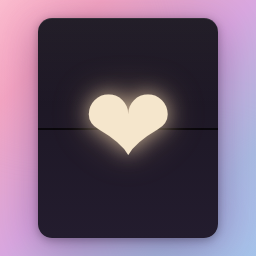
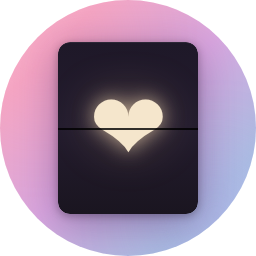
chore: align branding consistency across all surfaces (#121)
- pyproject.toml: name e-note-ion (lowercase); drop ! from description
- unraid/e-note-ion.xml: Name e-note-ion (machine-readable, per Unraid convention)
- assets/social-preview.png: regenerated with E•NOTE•ION (bullet, not middle dot)
- assets/icon.png: regenerated with circular transparent background (RGBA)
- assets/README.md: update prompts to use E•NOTE•ION canonical name;
  wrap both prompts to 80-column target; update icon prompt to reflect
  circular/transparent design
- CLAUDE.md: require reading all issue comments before planning or
  prioritising; add to both Maintenance and Planning sections

GitHub repo metadata updated directly (outside this commit):
  description, homepage, topics

Closes #93
Closes #53

diff --git a/assets/README.md b/assets/README.md
@@ -8,70 +8,92 @@ through several rounds of feedback. The final prompt used to produce it:
 
 ```
 Generate a social media preview image at 1280×640 pixels for a GitHub
-repository called "e-note-ion". The name is a play on both "Vestaboard
+repository called "E•NOTE•ION". The name is a play on both "Vestaboard
 Note" (a split-flap display) and the Carly Rae Jepsen album "E•MO•TION".
 
-Style: 80s synthpop / E•MO•TION album aesthetic. Soft pastel gradient
+**Style:** 80s synthpop / E•MO•TION album aesthetic. Soft pastel gradient
 background, pink fading to lavender or light blue. Dreamy, warm, slightly
 retro. No photorealism — graphic design / illustration style.
 
-Center element: A split-flap display showing "E-NOTE-ION" across 10 tiles:
-E, -, N, O, T, E, -, I, O, N. The dashes are proper dark flap tiles with a
-- character. Two tiles appear mid-flip to show motion — the O tile (4th)
-and the I tile (8th):
+**Center element:** A split-flap display showing "E-NOTE-ION" across 10
+tiles: `E`, `-`, `N`, `O`, `T`, `E`, `-`, `I`, `O`, `N`. The dashes are
+proper dark flap tiles with a `-` character. Two tiles appear mid-flip to
+show motion — the O tile (4th) and the I tile (8th):
+- Each tile is built from two half-panels (top and bottom), both showing
+  the **outgoing** character, clipped to their respective halves so the
+  character appears whole across the split.
+- A **falling flap** overlay covers the top half, showing the **incoming**
+  character's top half, rotated around its bottom edge using CSS `rotateX`
+  with `perspective`. The flap should be nearly flat (almost done
+  flipping) — use `rotateX(18deg)` for the O tile (N→O transition) and
+  `rotateX(22deg)` for the I tile (H→I transition). Include a subtle
+  darkening gradient on the flap face to sell the foreshortening.
+- A 2px dark split line sits at the tile midpoint (z-index above panels).
+- Tile bodies are dark near-black purple-dark. Characters in warm
+  cream/white (`#f5e6cc`) with a subtle glow. Flap characters slightly
+  warmer/dimmer (`#c9a572`).
 
-Each tile is built from two half-panels (top and bottom), both showing the
-outgoing character, clipped to their respective halves so the character
-appears whole across the split.
+**Title:** "E•NOTE•ION" in Bebas Neue bold retro typography, styled like
+the E•MO•TION album logo. Use two filled pink circles (`#d94f7a`, 22px
+diameter) as dot separators between E, NOTE, and ION. Font size ~96px,
+dark color, slight text shadow. Dots should be vertically centered with
+the text (use `top: -2px` to fine-tune alignment).
 
-A falling flap overlay covers the top half, showing the incoming
-character's top half, rotated around its bottom edge using CSS rotateX with
-perspective. The flap should be nearly flat (almost done flipping) — use
-rotateX(18deg) for the O tile (N→O transition) and rotateX(22deg) for the
-I tile (H→I transition). Include a subtle darkening gradient on the flap
-face to sell the foreshortening.
+**Tagline** below in DM Sans 300 weight, ~22px, letter-spacing 2.5px:
+"Automation for Vestaboard displays — with emotion" — no trailing period,
+sentence case (capitalize Automation and Vestaboard only).
 
-A 2px dark split line sits at the tile midpoint (z-index above panels).
+**Accents:** ~11 small colored square tiles (red `#e8453c`, orange
+`#f28b30`, yellow `#f5c842`, green `#4caf6e`) scattered as confetti around
+the composition, referencing Vestaboard's colored character codes. Vary
+sizes (~13–20px), rotations, and opacity slightly. Keep outside the
+central content area.
 
-Tile bodies are dark near-black purple-dark. Characters in warm
-cream/white (#f5e6cc) with a subtle glow. Flap characters slightly
-warmer/dimmer (#c9a572).
-
-Title: "E·NOTE·ION" in Bebas Neue bold retro typography, styled like the
-E•MO•TION album logo. Use two small filled pink circles (#d94f7a) as dot
-separators between E, NOTE, and ION. Font size ~96px, dark color, slight
-text shadow.
-
-Tagline below in DM Sans 300 weight, ~22px: "Automation for Vestaboard
-displays — with emotion" — no trailing period, sentence case (capitalize
-Automation and Vestaboard only).
-
-Accents: ~11 small colored square tiles (red #e8453c, orange #f28b30,
-yellow #f5c842, green #4caf6e) scattered as confetti around the
-composition, referencing Vestaboard's colored character codes. Vary sizes
-(~13–20px), rotations, and opacity. Keep outside the central content area.
-
-Layout: All content within a 40pt safe border. No watermark or label.
+**Layout:** All content within a 40pt safe border. No watermark or label.
 Clean centered composition — display above, title and tagline stacked
 below.
 ```
 
 ## Icon (`icon.png`)
 
-The app icon was generated using [Claude](https://claude.ai) (Anthropic),
-continuing the same chat session as the social preview to preserve aesthetic
-context. The final prompt used:
+The app icon was generated using [Claude](https://claude.ai) (Anthropic).
+The final prompt used:
 
 ```
-Now generate a square app icon at 256×256 pixels for the same project.
+Generate a square app icon at 256×256 pixels for a project called
+E•NOTE•ION — a cron-based content scheduler for Vestaboard split-flap
+displays. The name is a play on both "Vestaboard Note" and the Carly Rae
+Jepsen album "E•MO•TION".
 
-Center element: A single split-flap display tile, dark (near-black
-purple-dark), showing the ❤ character in warm cream/white with a subtle
-glow. Include a horizontal split line across the middle of the tile. The
-tile should be large and prominent, filling most of the icon, with
-slightly rounded corners and a subtle drop shadow.
+**Style:** Same 80s synthpop / E•MO•TION aesthetic as the social preview —
+soft pastel pink-to-lavender gradient background
+(`linear-gradient(135deg, #f9c5d1 0%, #f2a7c3 20%, #d9a7e0 50%,
+#a7bde0 80%, #a0c8e8 100%)`), dreamy, warm, slightly retro. Add two soft
+blurred light blobs for depth (pink top-left, purple bottom-right). No
+photorealism — graphic design / illustration style.
 
-Use the same pastel pink-to-lavender gradient background and overall
-aesthetic as the social preview. No text, no wordmark — icon only. Should
-read clearly at small sizes like 32–64px.
+**Shape:** Circular composition with a transparent background (PNG with
+alpha). The gradient background and tile are contained within a circle —
+no square edges. Should read clearly at small sizes like 32–64px.
+
+**Center element:** A single split-flap display tile, 140×172px with 12px
+border radius, showing the ❤ character in warm cream/white (`#f5e6cc`)
+with a subtle glow
+(`text-shadow: 0 0 20px rgba(245,220,180,0.7), 0 0 50px rgba(245,200,150,0.3)`).
+Built from two half-panels:
+- Top half: `linear-gradient(180deg, #1e1828 0%, #231c2e 100%)`, aligns
+  character bottom to split
+- Bottom half: `linear-gradient(180deg, #231c2e 0%, #1a1520 100%)`,
+  aligns character top to split
+- Each half clips its portion of the character so it appears whole across
+  the midpoint
+- A 2px dark split line (`rgba(0,0,0,0.8)`) sits at the tile midpoint,
+  z-index above panels
+- Subtle drop shadow:
+  `0 8px 40px rgba(60,20,80,0.38), 0 2px 8px rgba(0,0,0,0.3)`
+
+The tile should have comfortable padding within the circle — sized so the
+gradient background shows evenly on all sides.
+
+**No text, no wordmark — icon only.**
 ```

diff --git a/CLAUDE.md b/CLAUDE.md
@@ -273,7 +273,8 @@ prevention to the checklist or workflow — not just a one-off fix. Examples:
 All non-trivial work follows a plan-then-execute cycle:
 
 1. **Create or identify a GitHub issue** for the work. Assign to JasonPuglisi
-   with an appropriate milestone.
+   with an appropriate milestone. Read all existing comments on the issue before
+   proceeding — blockers, prior decisions, and context live there.
 2. **Post an in-depth implementation plan as a comment** on the issue. The plan
    should cover: specific files and functions to change, the approach with
    rationale, edge cases, any open questions, and a **## Tests** section listing
@@ -338,7 +339,10 @@ Dependencies and pinned versions should be kept current:
 
 - **Open issues**: `gh issue list --state open` — the GitHub issue tracker at
   https://github.com/JasonPuglisi/e-note-ion/issues is the source of truth for
-  all TODOs and planned work; check it at the start of each session
+  all TODOs and planned work; check it at the start of each session. When
+  reviewing an issue for planning or prioritisation, always read all comments
+  (`gh issue view <n>`) for full context — blockers, decisions, and status
+  updates often live there, not in the issue body
 - **Security alerts**: check open CodeQL and Dependabot alerts at the start of
   each session and address any before other work
   ```
